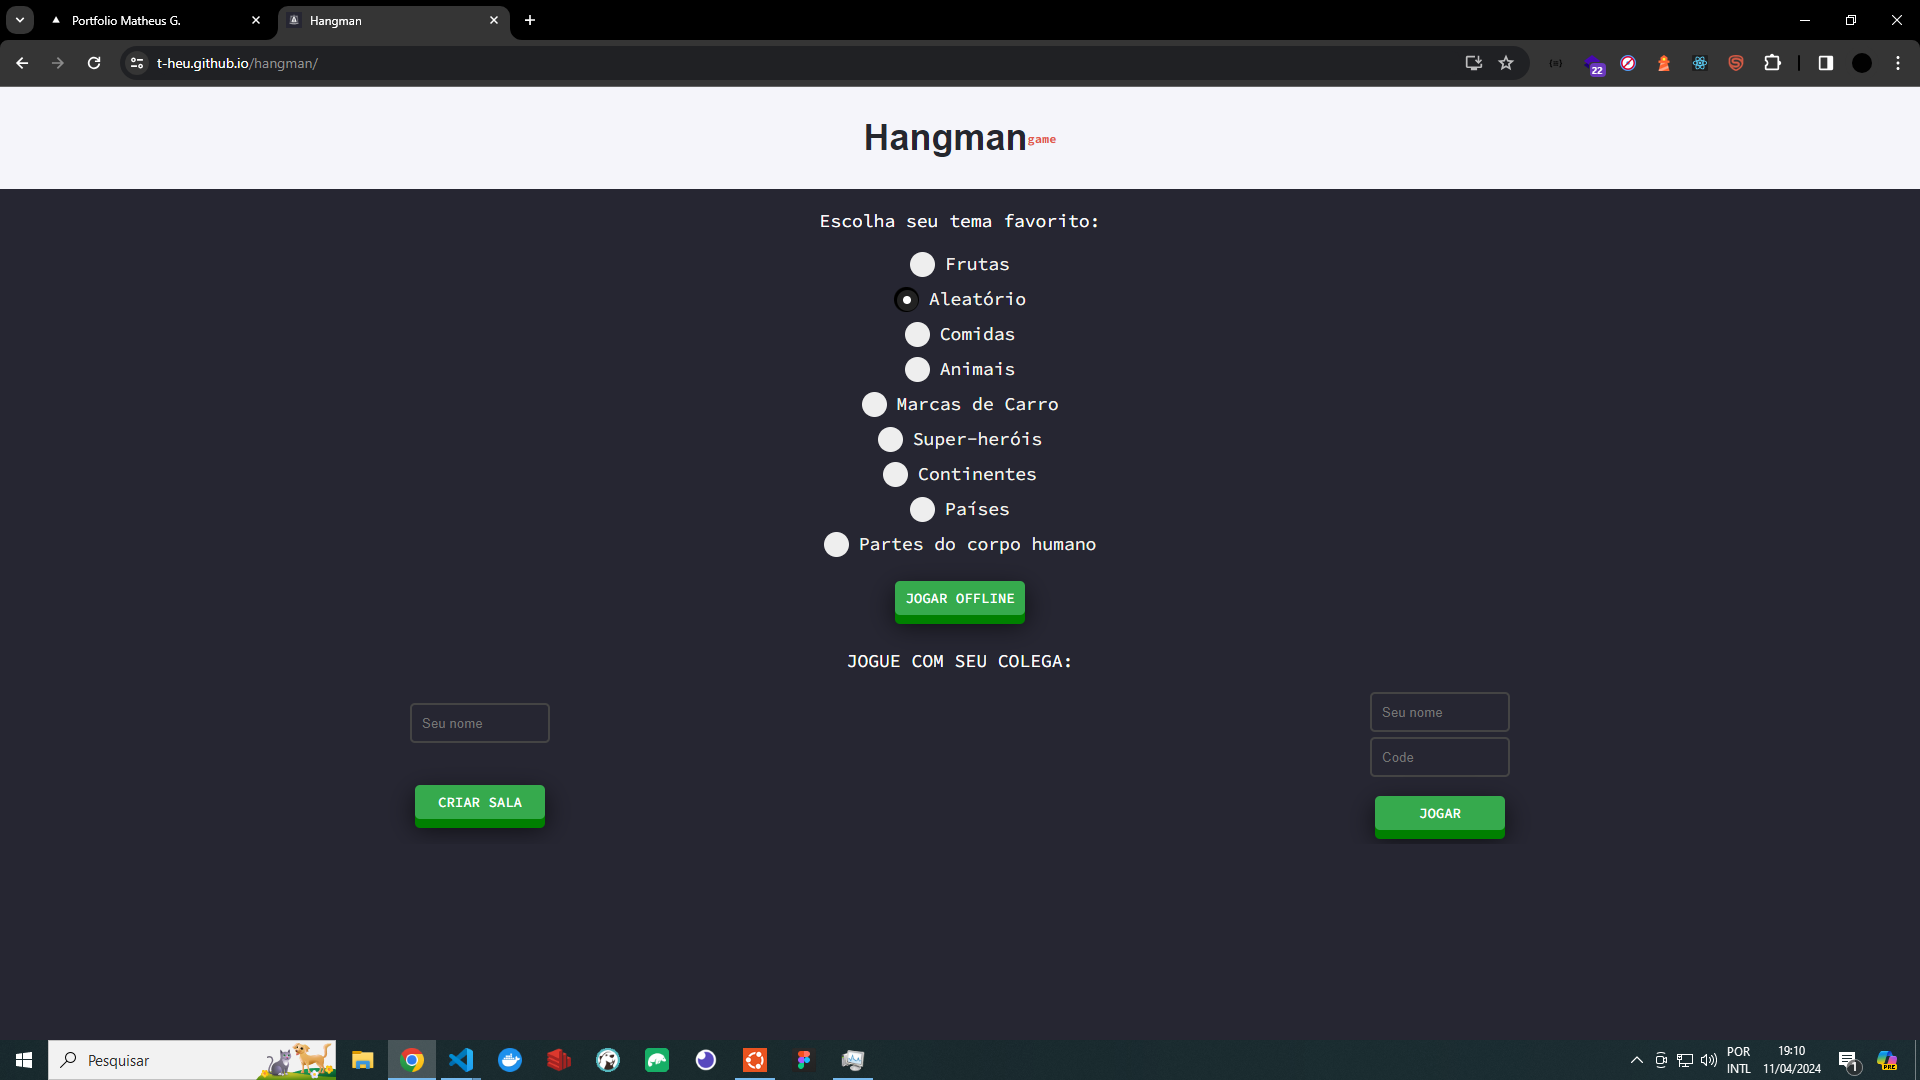
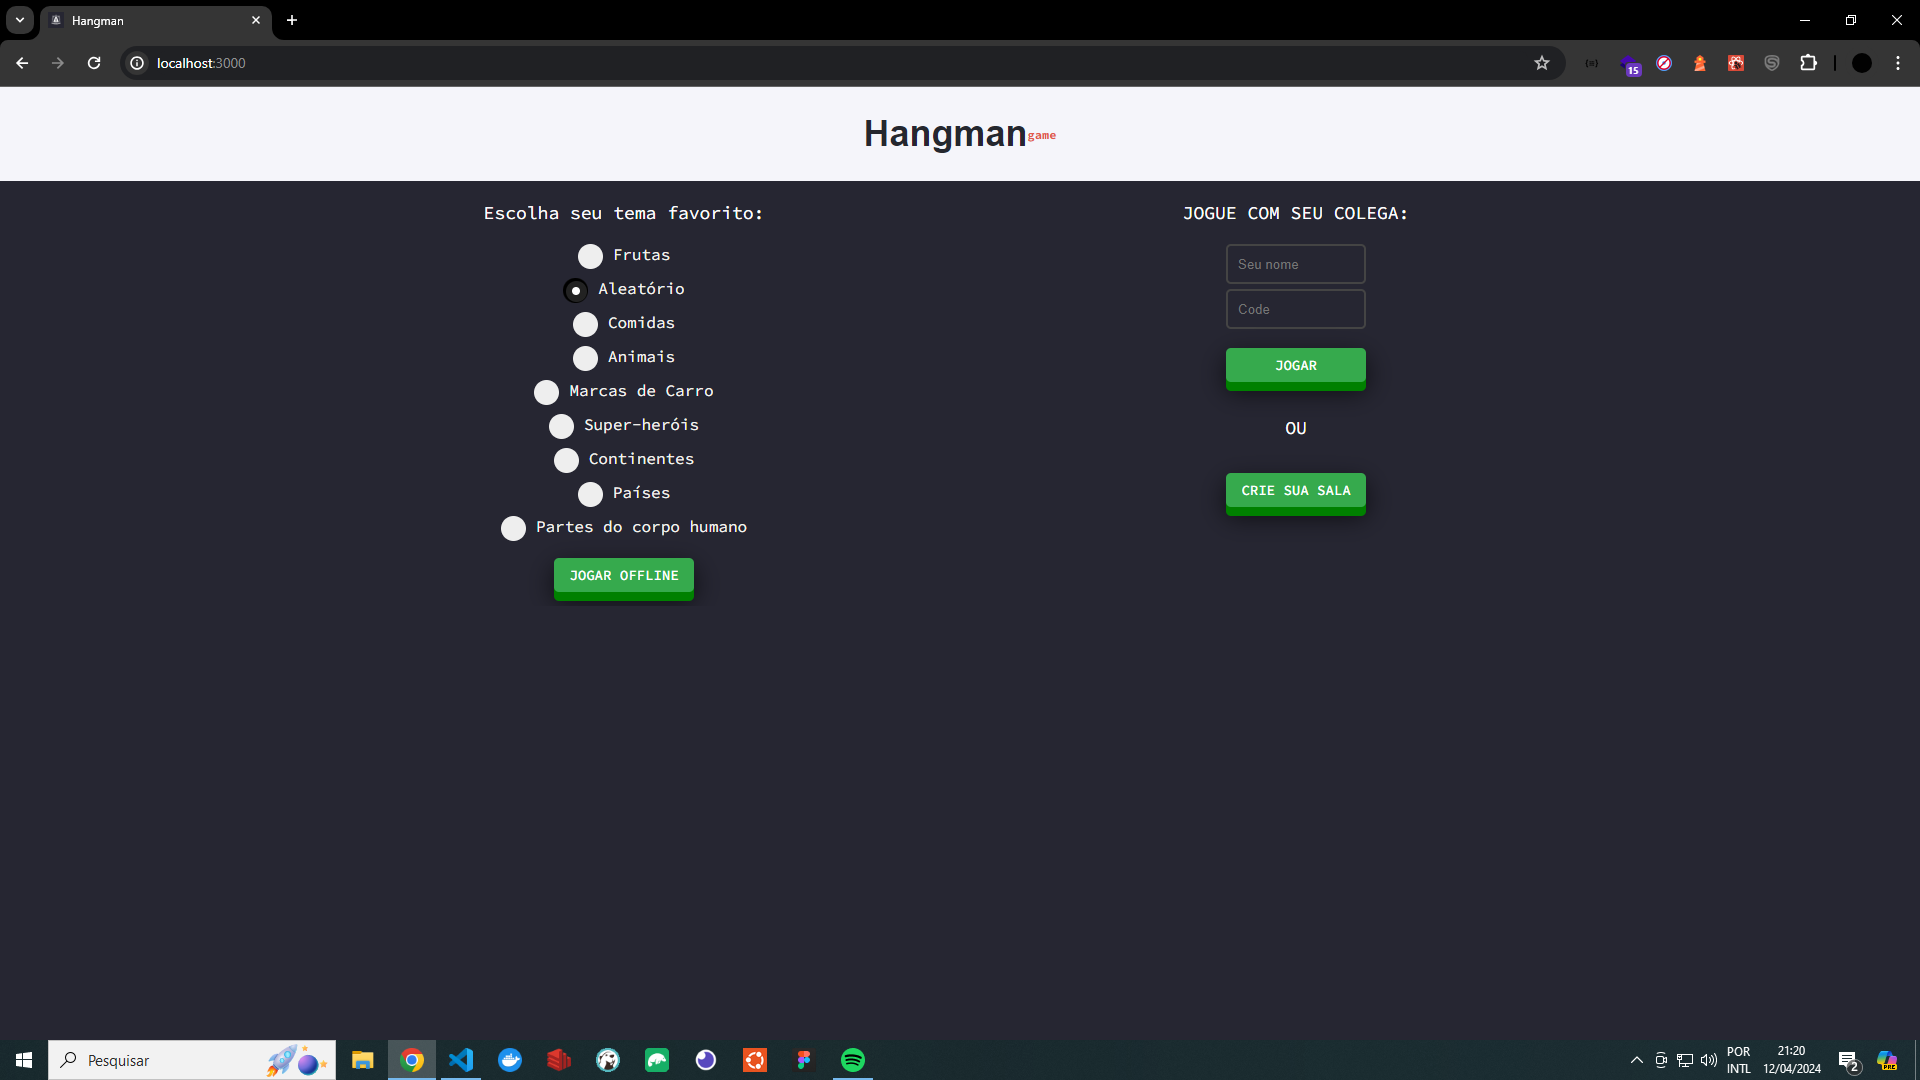
fix: Corrigido bug na validação de formulário e refatorado CSS para melhorar legibilidade e organização.

diff --git a/src/app/home/page.tsx b/src/app/home/page.tsx
@@ -1,8 +1,5 @@
 "use client";
 import { useState } from 'react';
-import { Source_Code_Pro } from "next/font/google";
-
-const sourceCodePro = Source_Code_Pro({ subsets: ["latin"] });
 
 import { database, set, ref, update, get, child, remove, push } from '../../api/firebase'
 import DataTheme from '../../data/themes.json';
@@ -15,13 +12,13 @@ import {
   Main, 
   Title,
   OnlineRoomDiv,
-  Theme
+  Theme,
+  Container
 } from './style'
 
 export default function Home({changeComponent, code, currentPlayerUID, indexTheme}: any) {
   const [checked, setChecked] = useState(1);
-  const [nameP1, setNameP1] = useState('');
-  const [nameP2, setNameP2] = useState('');
+  const [name, setName] = useState('');
   const [codeRoom, setCodeRoom] = useState('');
 
   function generateRandomWord(length: number) {
@@ -43,7 +40,7 @@ export default function Home({changeComponent, code, currentPlayerUID, indexThem
     }
   }
 
-  function createPlayer(roomKey: string, owner: boolean) {
+  function createPlayer(roomKey: string, owner: boolean, name: string) {
     try {
       const updates: any = {};
       const playersRef = ref(database, `hangman/rooms/${roomKey}/players`);
@@ -51,7 +48,7 @@ export default function Home({changeComponent, code, currentPlayerUID, indexThem
       const nextPlayer = newPlayerRef.key;
   
       updates[`hangman/rooms/${roomKey}/players/p${nextPlayer}`] = {
-        name: nameP1 || nameP2,
+        name,
         gameover: false,
         victory: false,
         uid: nextPlayer,
@@ -61,7 +58,7 @@ export default function Home({changeComponent, code, currentPlayerUID, indexThem
       }
       
       update(ref(database), updates);
-      
+      code(roomKey)
       indexTheme(checked)
       currentPlayerUID(nextPlayer)
       changeComponent('Lobby')
@@ -73,9 +70,14 @@ export default function Home({changeComponent, code, currentPlayerUID, indexThem
   async function createGame(stauts: boolean) {
     try {
       if (stauts) {
-        if (!nameP1) {
+        if (!name) {
           return alert('Error: Insira seu nome');
         }
+
+        if (!(/^[a-zA-Z\s]*$/.test(name))) {
+          return alert('Insira nome valido!')
+        }
+
         const roomKey = generateRandomWord(6);
 
         await set(ref(database, 'hangman/rooms/' + roomKey), {
@@ -88,9 +90,8 @@ export default function Home({changeComponent, code, currentPlayerUID, indexThem
         });
 
         code(roomKey)
-        createPlayer(roomKey, true);
+        createPlayer(roomKey, true, name);
       } else {
-        //router.push(`/game?indexTheme=${checked}`);
         indexTheme(checked)
         changeComponent('Game')
       }
@@ -100,14 +101,14 @@ export default function Home({changeComponent, code, currentPlayerUID, indexThem
   }
 
   function enterRoomCode() {
-    get(child(ref(database), 'hangman/rooms/' + code)).then((snapshot) => {
+    get(child(ref(database), 'hangman/rooms/' + codeRoom)).then((snapshot) => {
       if (snapshot.exists()) {
         const data = snapshot.val();
         const playersObject = data.players || {};
         const numPlayers = Object.keys(playersObject).length;
 
         if (!data.gameInProgress && numPlayers < 8) {
-          createPlayer(code, false)
+          createPlayer(codeRoom, false, name)
         } else {
           alert('Error: Ja foi iniciado a partida ou sala cheia')
         }
@@ -135,7 +136,7 @@ export default function Home({changeComponent, code, currentPlayerUID, indexThem
             createGame(true);
           } else {
             if (!room.gameInProgress && numPlayers < 8) {
-              createPlayer(roomKey, false)
+              createPlayer(roomKey, false, name)
               return true
             } else {
               createGame(true);
@@ -153,13 +154,21 @@ export default function Home({changeComponent, code, currentPlayerUID, indexThem
   }
 
   function play() {
-    if (code) {
-      if (!nameP2) {
-        return alert('Error: Insira seu nome');
-      }
+    if (!name) {
+      return alert('Error: Insira seu nome!');
+    }
+
+    if (!(/^[a-zA-Z\s]*$/.test(name))) {
+      return alert('Insira nome valido!')
+    }
+
+    if (!(/^[a-zA-Z\s]*$/.test(codeRoom))) {
+      return alert('Insira código valido!')
+    }
+
+    if (codeRoom) {
       enterRoomCode();
     } else {
-      // Buscar todas as salas no banco de dados
       joinRoom();
     }
   }
@@ -182,32 +191,33 @@ export default function Home({changeComponent, code, currentPlayerUID, indexThem
 
   return (
     <Main>
-      <Title className={`${sourceCodePro.className}`}>Escolha seu tema favorito:</Title>
+      <Container>
+        <Main>
+          <Title>Escolha seu tema favorito:</Title>
 
-      <Theme>
-        {DataTheme.themes.map((data, i) => (
-          renderThemes(data, i)
-        ))}
-      </Theme>
+          <Theme>
+            {DataTheme.themes.map((data, i) => (
+              renderThemes(data, i)
+            ))}
+          </Theme>
 
-      <Button text='JOGAR OFFLINE' press={() => createGame(false)} />
+          <Button text='JOGAR OFFLINE' press={() => createGame(false)} />
+        </Main>
 
-      <Main>
-        <Title>JOGUE COM SEU COLEGA:</Title>
+        <Main>
+          <Title>JOGUE COM SEU COLEGA:</Title>
 
-        <OnlineRoomDiv>
-          <RoomDiv>
-            <Input value={nameP1} onChange={(e) => setNameP1(e.target.value)} placeholder='Seu nome' />
-            <Button text='CRIAR SALA' press={() => createGame(true)} />
-          </RoomDiv>
-
-          <RoomDiv>
-            <Input value={nameP2} onChange={(e) => setNameP2(e.target.value)} placeholder='Seu nome' />
-            <Input value={codeRoom} onChange={(e) => setCodeRoom(e.target.value)} placeholder='Code' />
-            <Button text='JOGAR' press={() => play()} />
-          </RoomDiv>
-        </OnlineRoomDiv>
-      </Main>
+          <OnlineRoomDiv>
+            <RoomDiv>
+              <Input value={name} onChange={(e) => setName(e.target.value)} placeholder='Seu nome' />
+              <Input value={codeRoom} onChange={(e) => setCodeRoom(e.target.value)} placeholder='Code' />
+              <Button text='JOGAR' press={() => play()} />
+              <Title>OU</Title>
+              <Button text='CRIE SUA SALA' press={() => createGame(true)} />
+            </RoomDiv>
+          </OnlineRoomDiv>
+        </Main>
+      </Container>
     </Main>
   );
 }

diff --git a/src/app/game/page.tsx b/src/app/game/page.tsx
@@ -250,7 +250,7 @@ export default function Game({changeComponent, code, currentPlayerUID, indexThem
           {status ? (
             <>
               <GuideText style={{color: '#FDE767'}}>{winnerMessage}</GuideText>
-              {!(wordName.every((char) => char !== '')) && Object.values(players).length > 1 ? (<GuideText style={{color: '#FDE767'}}>A Palavra era: {word.name}</GuideText>) : null}
+              {!code || (!(wordName.every((char) => char !== '')) && Object.values(players).length > 1) ? (<GuideText style={{color: '#FDE767'}}>A Palavra era: {word.name}</GuideText>) : null}
               <Button press={restartGame} text='JOGAR NOVAMENTE' />
               <Button press={logout} text='SAIR' />
             </>

diff --git a/src/app/home/style.ts b/src/app/home/style.ts
@@ -5,10 +5,22 @@ export const Theme = styled.div`
   flex-direction: column;
   overflow-x: hidden;
   overflow-y: scroll;
-  height: 275px;
+  height: 300px;
+  align-items: center;
+  justify-items: center;
+  align-content: center;
 
   &::-webkit-scrollbar {
     display: none;
+  }
+`;
+
+export const Container = styled.div`
+  display: flex;
+  width: 70%;
+
+  @media (max-width: 790px) {
+    flex-direction: column;
   }
 `;
 
@@ -27,6 +39,10 @@ export const Input = styled.input`
   width: 140px;
   margin-bottom: 5px;
   background-color: #262632;
+
+  &:focus {
+    border-color: #eee;
+  }
 `;
 
 export const Main = styled.div`

diff --git a/src/components/style.ts b/src/components/style.ts
@@ -3,7 +3,7 @@ import styled from 'styled-components';
 // HeaderComp
 export const Header = styled.div`
   background: #f5f5fa;
-  padding: 27px;
+  padding: 26px;
   display: flex;
   justify-content: center;
   align-items: center;
@@ -40,7 +40,7 @@ export const Button = styled.button`
   border-radius: 5px;
   box-shadow: 0 9px 0 green ,0 9px 25px rgba(0,0,0,.7);
   margin: 1em auto;
-  min-width: 130px;
+  min-width: 140px;
   max-width: inherit;
   text-align: center;
   cursor: pointer;

diff --git a/src/app/globals.css b/src/app/globals.css
@@ -106,7 +106,7 @@ a {
   display: block;
   position: relative;
   padding-left: 35px;
-  margin-bottom: 12px;
+  margin-bottom: 14px;
   cursor: pointer;
   font-size: 16px;
   -webkit-user-select: none;
@@ -115,7 +115,6 @@ a {
   user-select: none;
   color: #f5f5f0;
   flex-wrap: wrap;
-  width: 200px;
 }
 
 /* Hide the browser's default radio button */

diff --git a/src/app/lobby/page.tsx b/src/app/lobby/page.tsx
@@ -105,7 +105,7 @@ export default function Lobby({changeComponent, code, currentPlayerUID, indexThe
         <PlayerInfo style={{color: data.ready ? '#36AA4D' : '#e2584d'}}>{data.ready ? 'READY' : 'NOT READY'}</PlayerInfo>
       )}
     </PlayerContainer>
-  );
+  )
 
   return (
     <Main>

diff --git a/README.md b/README.md
@@ -6,3 +6,5 @@ Desafie seus amigos ou jogue com pessoas aleatórias no jogo da forca, online ou
 
 ## Preview
 ![alt text](docs/preview.png "Title")
+![alt text](docs/preview2.png "Title")
+![alt text](docs/preview3.png "Title")
